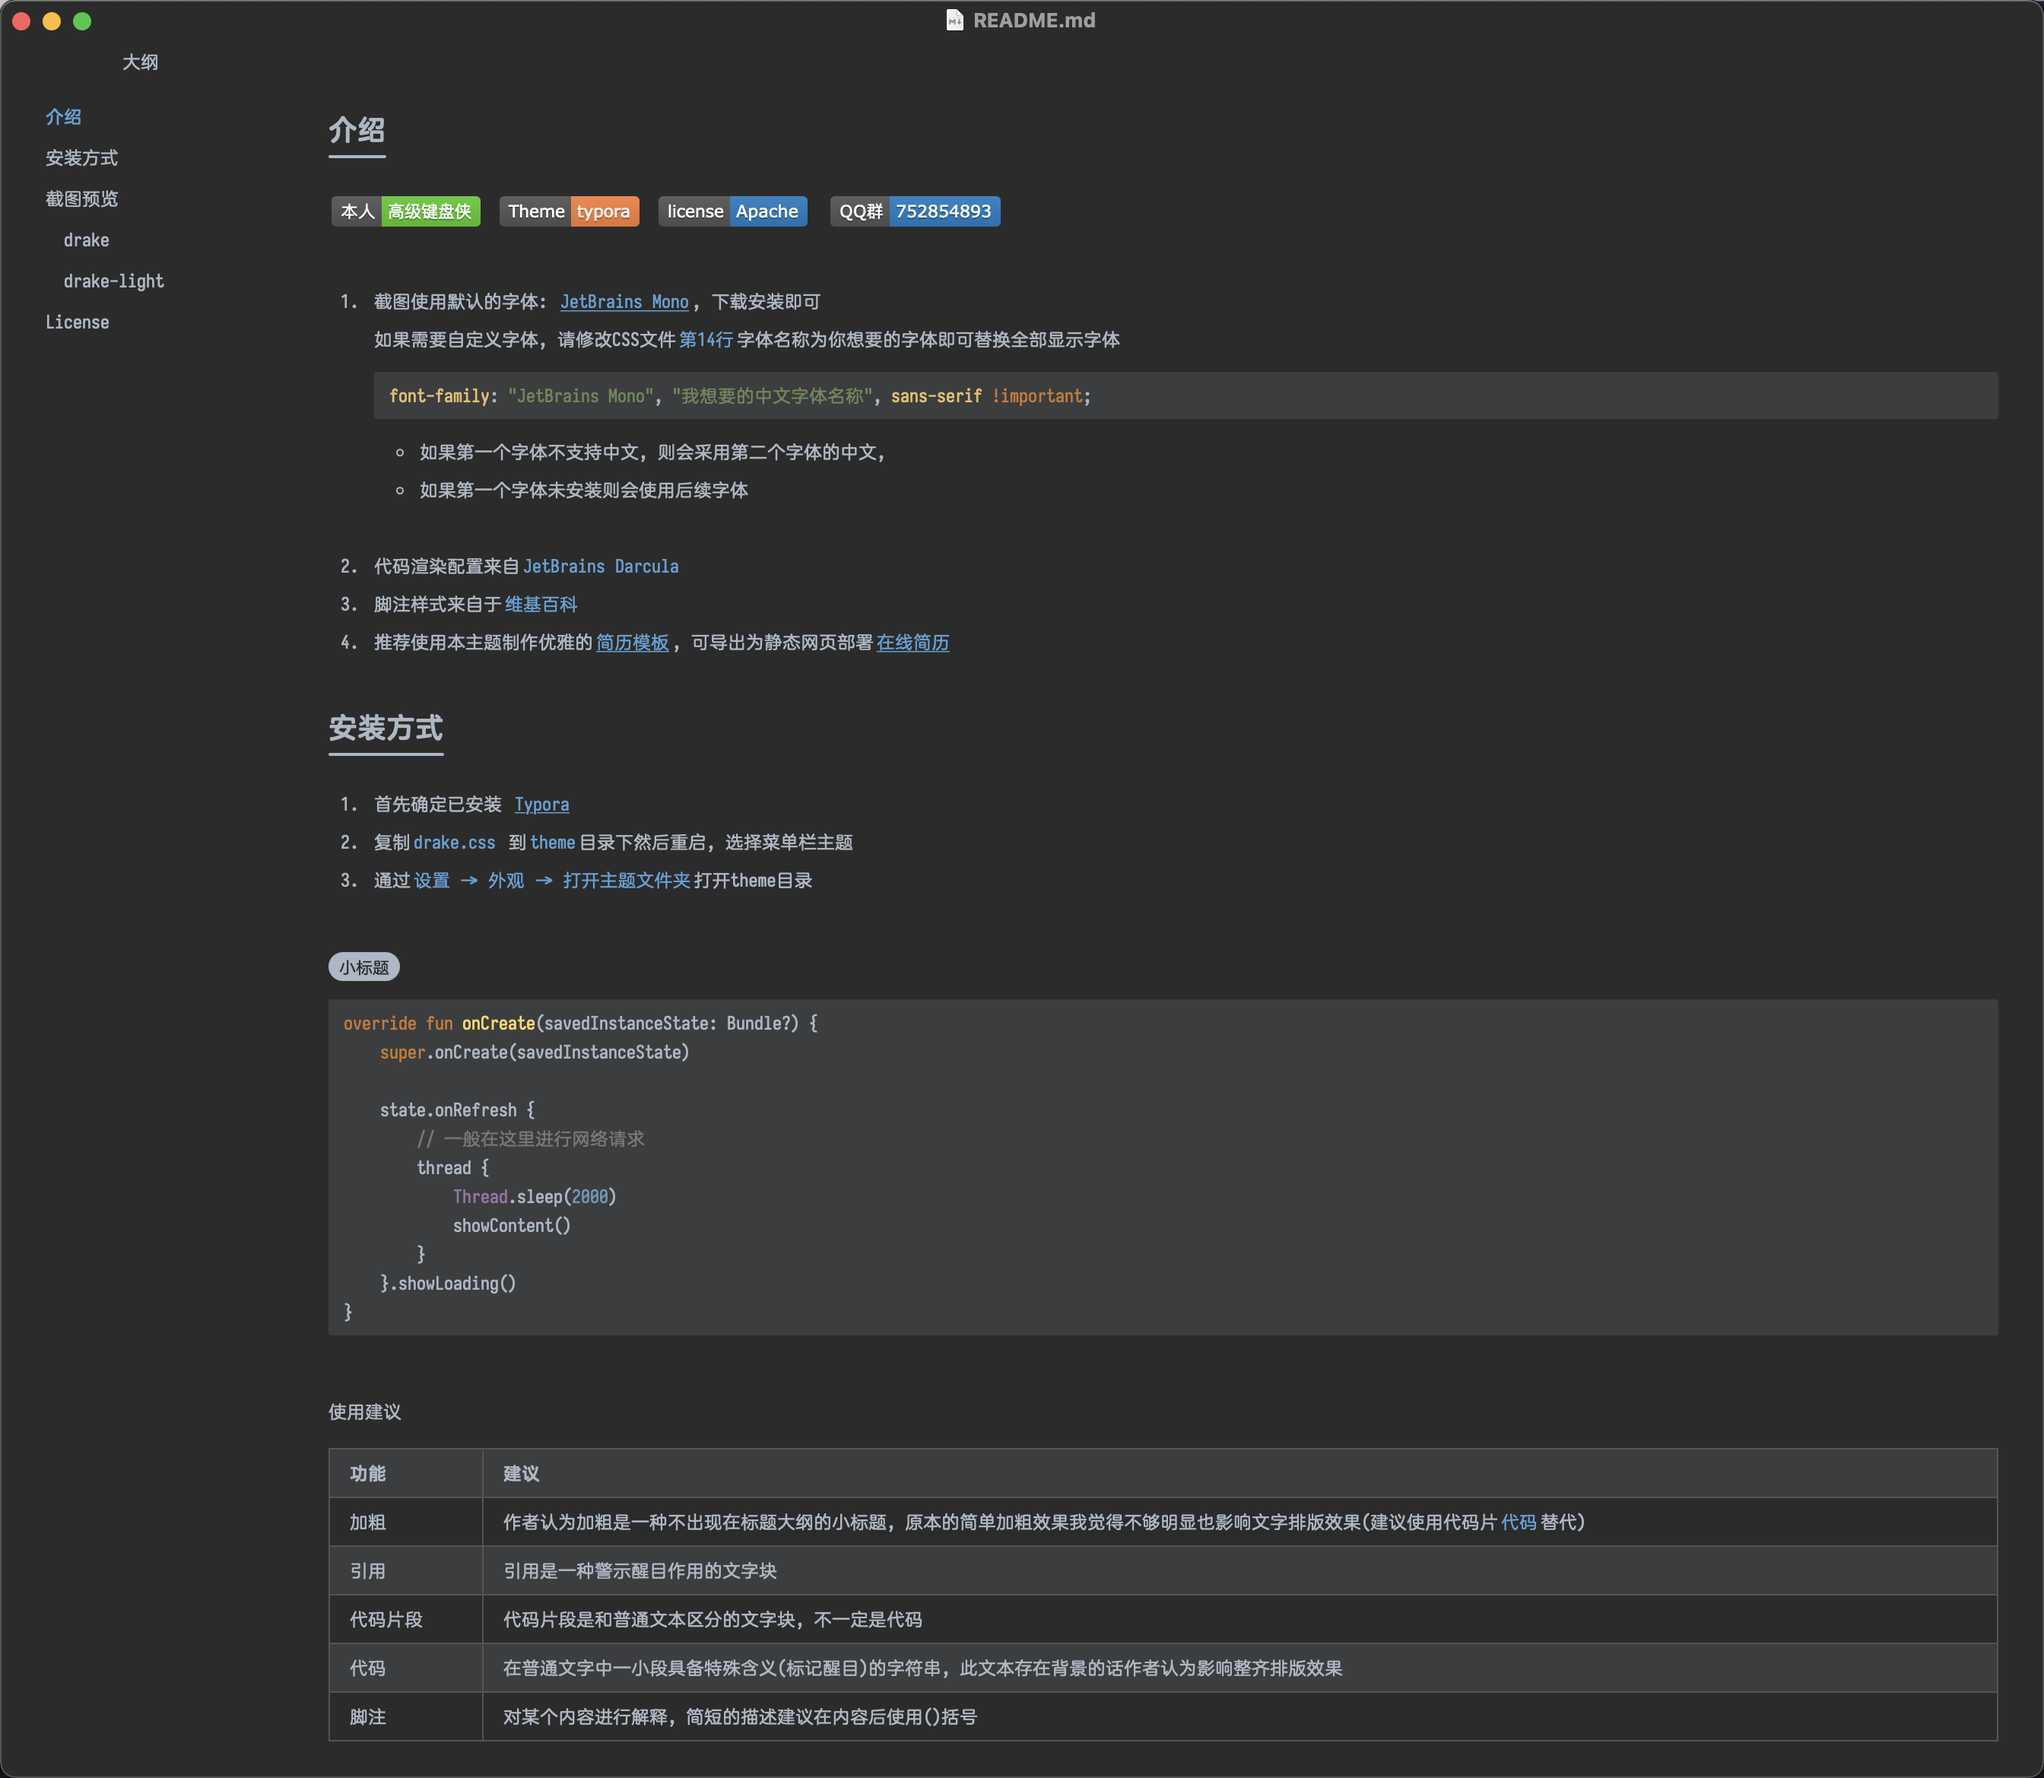
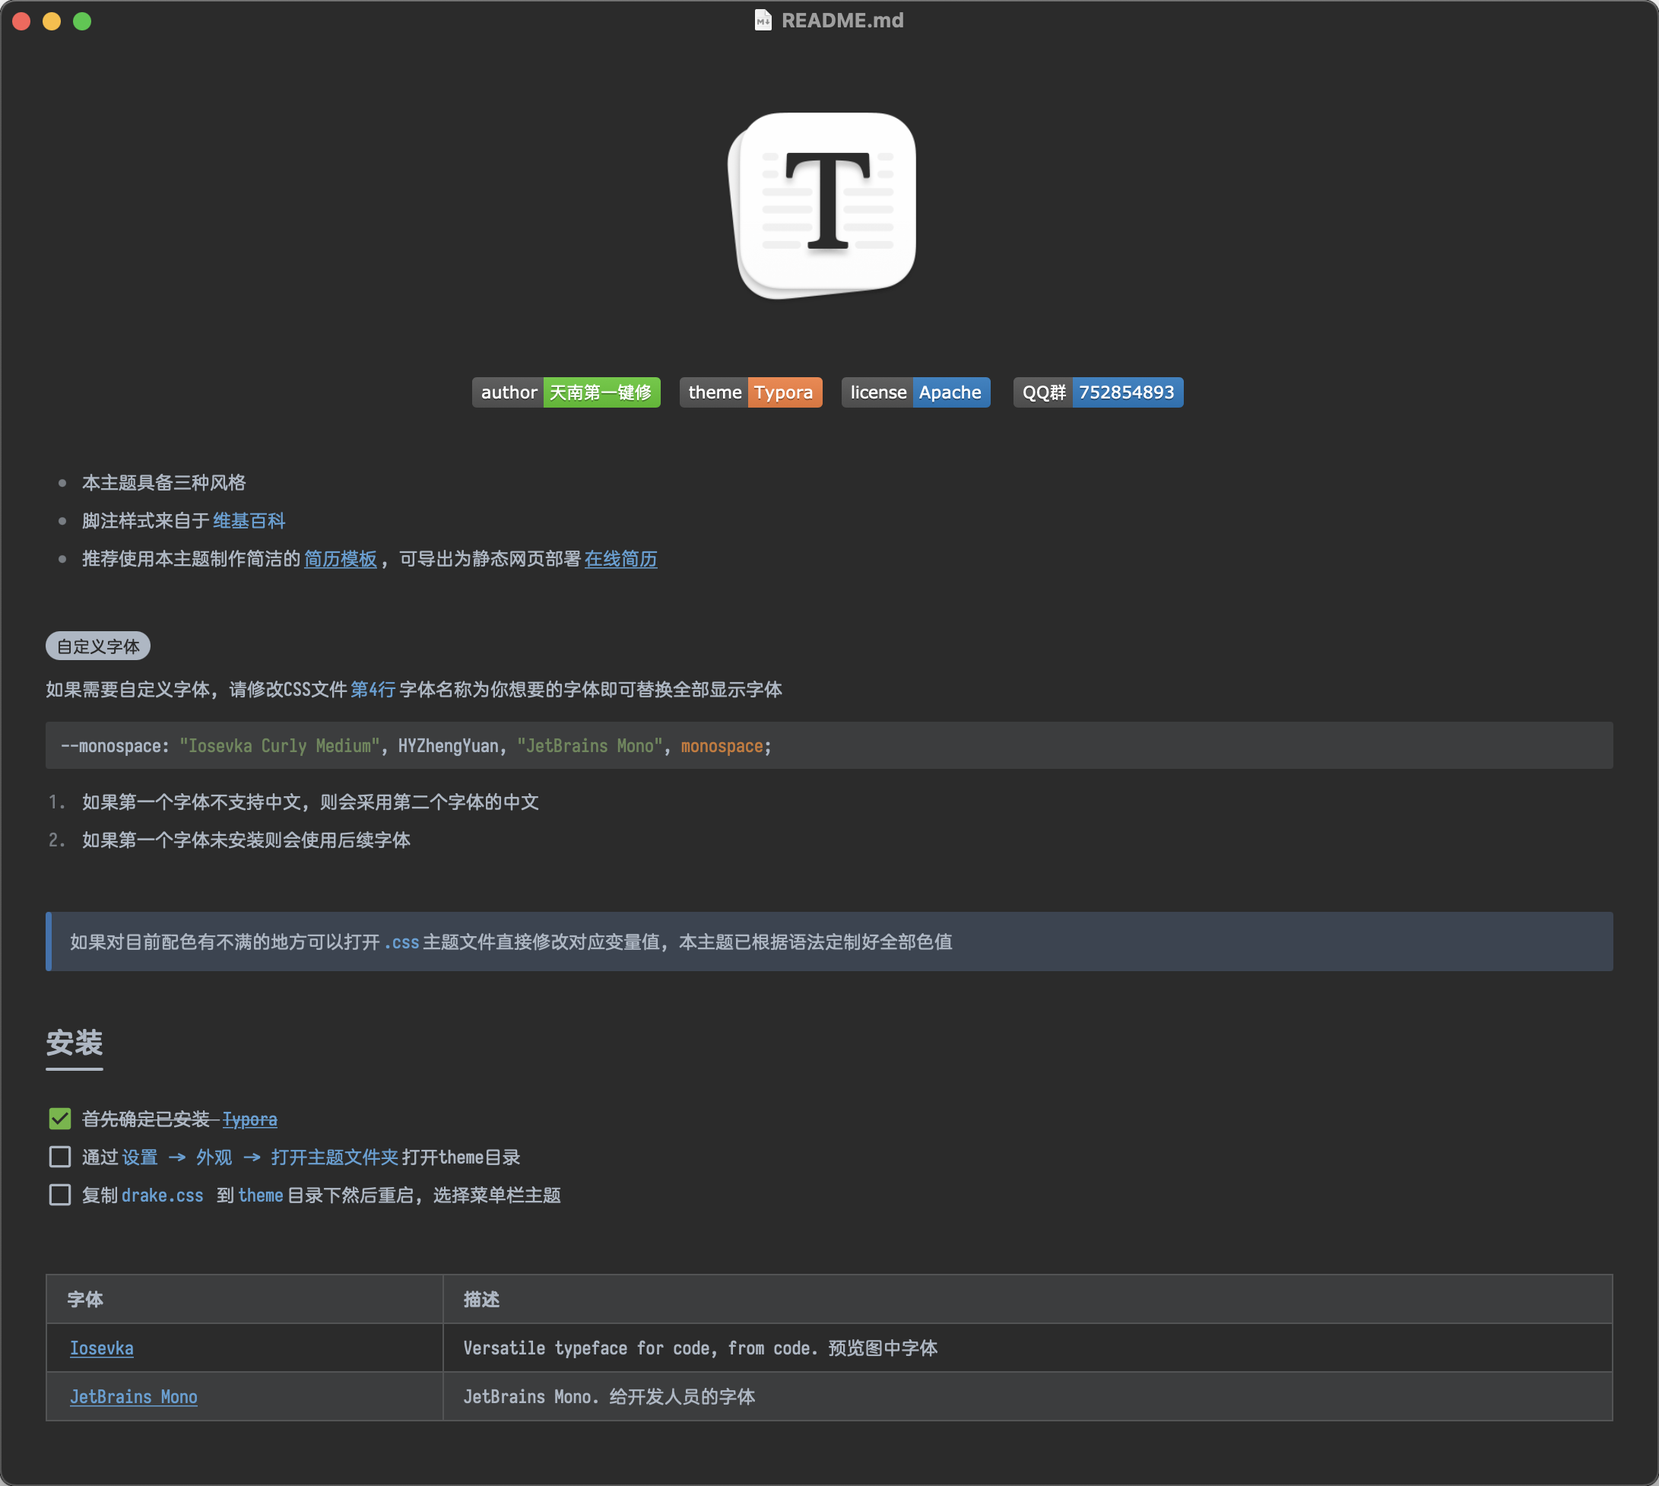
更新文档

diff --git a/README.md b/README.md
@@ -1,94 +1,62 @@
-## 介绍
+<p align="center">
+<img src="https://i.imgur.com/3U8bJOE.png" alt="image-20210710130755511" width="150" />
+</p>
 
-<p align="left">
-<img src="https://img.shields.io/badge/本人-%E9%AB%98%E7%BA%A7%E9%94%AE%E7%9B%98%E4%BE%A0-brightgreen"/>
-<img src="https://img.shields.io/badge/Theme-typora-orange.svg"/>
+
+
+<p align="center">
+<img src="https://img.shields.io/badge/author-天南第一键修-brightgreen"/>
+<img src="https://img.shields.io/badge/theme-Typora-orange.svg"/>
 <img src="https://img.shields.io/badge/license-Apache-blue"/>
 <a href="https://jq.qq.com/?_wv=1027&k=vWsXSNBJ"><img src="https://img.shields.io/badge/QQ群-752854893-blue"/></a>
 </p>
 
+- 本主题具备三种风格
+- 脚注样式来自于`维基百科`
+- 推荐使用本主题制作简洁的[简历模板](https://github.com/liangjingkanji/Resume-Template),
+  可导出为静态网页部署[在线简历](https://liangjingkanji.github.io/Resume-Template/)
 
-1. 本主题具备三种风格
-1. 截图使用默认的字体: [JetBrains Mono](https://www.jetbrains.com/lp/mono/), 下载安装即可
-
-1. 脚注样式来自于`维基百科`
-1. 更方便的配色定制(主题组件的配色全部使用变量)
-1. 推荐使用本主题制作优雅的[简历模板](https://github.com/liangjingkanji/Resume-Template), 可导出为静态网页部署[在线简历](https://liangjingkanji.github.io/Resume-Template/)
-
-
+**自定义字体**
 
 如果需要自定义字体, 请修改CSS文件`第4行`字体名称为你想要的字体即可替换全部显示字体
 
 ```css
---monospace: "JetBrains Mono", monospace;
+--monospace: "Iosevka Curly Medium", HYZhengYuan, "JetBrains Mono", monospace;
 ```
 
-- 如果第一个字体不支持中文, 则会采用第二个字体的中文, 
-- 如果第一个字体未安装则会使用后续字体
-
-## 安装方式
-
-1. 首先确定已安装 [Typora](https://typora.io/)
-
-2. 复制`drake.css` 到`theme`目录下然后重启, 选择菜单栏主题
-
-3. 通过`设置 -> 外观 -> 打开主题文件夹`打开theme目录
-
-**小标题**
-
-```kotlin
-override fun onCreate(savedInstanceState: Bundle?) {
-    super.onCreate(savedInstanceState)
-
-    state.onRefresh {
-        // 一般在这里进行网络请求
-        thread {
-            Thread.sleep(2000)
-            showContent()
-        }
-    }.showLoading()
-}
-```
-
-
-
-使用建议
-
-| 功能     | 建议                                                         |
-| -------- | ------------------------------------------------------------ |
-| 加粗     | 作者认为加粗是一种不出现在标题大纲的小标题, 原本的简单加粗效果我觉得不够明显也影响文字排版效果(建议使用代码片`代码`替代) |
-| 引用     | 引用是一种警示醒目作用的文字块                               |
-| 代码片段 | 代码片段是和普通文本区分的文字块, 不一定是代码               |
-| 代码     | 在普通文字中一小段具备特殊含义(标记醒目)的字符串, 此文本存在背景的话作者认为影响整齐排版效果 |
-| 脚注     | 对某个内容进行解释, 简短的描述建议在内容后使用()括号         |
-
-
-
-这里演示脚注内容[^2]
+1. 如果第一个字体不支持中文, 则会采用第二个字体的中文
+2. 如果第一个字体未安装则会使用后续字体
 
 > 如果对目前配色有不满的地方可以打开`.css`主题文件直接修改对应变量值, 本主题已根据语法定制好全部色值
 
+## 安装
 
+-   [x] 首先确定已安装 [Typora](https://typora.io/)
 
-[^2]: 脚注内容, 一般不使用脚注因为很多文档不支持`Markdown`脚注渲染(例如GitHub不支持脚注)
+-   [ ] 通过`设置 -> 外观 -> 打开主题文件夹`打开theme目录
 
+-   [ ] 复制`drake.css` 到`theme`目录下然后重启, 选择菜单栏主题
 
+| 字体                                                       | 描述                                                 |
+| ---------------------------------------------------------- | ---------------------------------------------------- |
+| [Iosevka](https://github.com/be5invis/Iosevka)             | Versatile typeface for code, from code. 预览图中字体 |
+| [JetBrains Mono](https://www.jetbrains.com/zh-cn/lp/mono/) | JetBrains Mono. 给开发人员的字体                     |
 
-## 截图预览
+## 预览
 
-提供多种配置预览
+提供多种配置预览, 点击查看高清大图
 
 ### drake-dark
 
-<img src="https://raw.githubusercontent.com/liangjingkanji/DrakeTyporaTheme/master/img/thumbnail-dark.png"/>
+<img src="https://raw.githubusercontent.com/liangjingkanji/DrakeTyporaTheme/master/img/thumbnail-dark.png" width="600"/> 
 
 ### drake
 
-<img src="https://raw.githubusercontent.com/liangjingkanji/DrakeTyporaTheme/master/img/thumbnail.png"/> 
+<img src="https://raw.githubusercontent.com/liangjingkanji/DrakeTyporaTheme/master/img/thumbnail.png" width="600"/> 
 
 ### drake-light
 
-<img src="https://raw.githubusercontent.com/liangjingkanji/DrakeTyporaTheme/master/img/thumbnail-light.png"/> 
+<img src="https://raw.githubusercontent.com/liangjingkanji/DrakeTyporaTheme/master/img/thumbnail-light.png" width="600"/> 
 
 ## License
 
